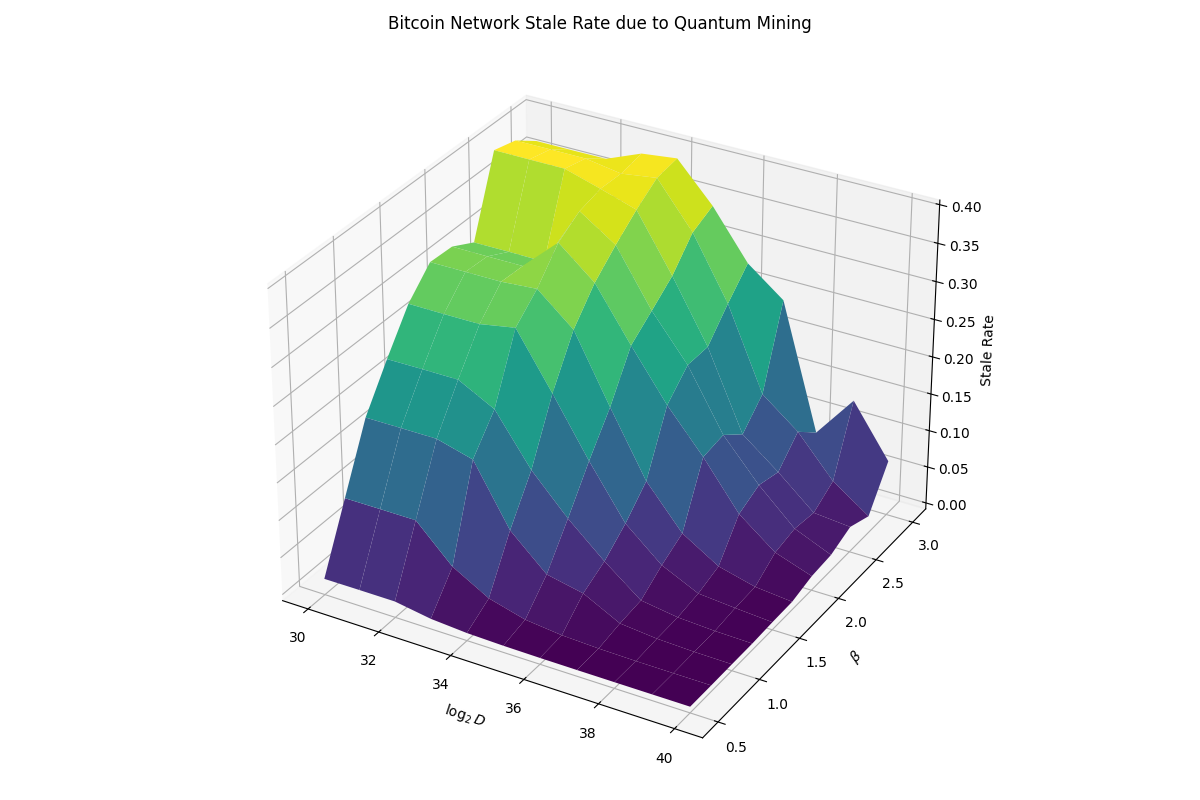
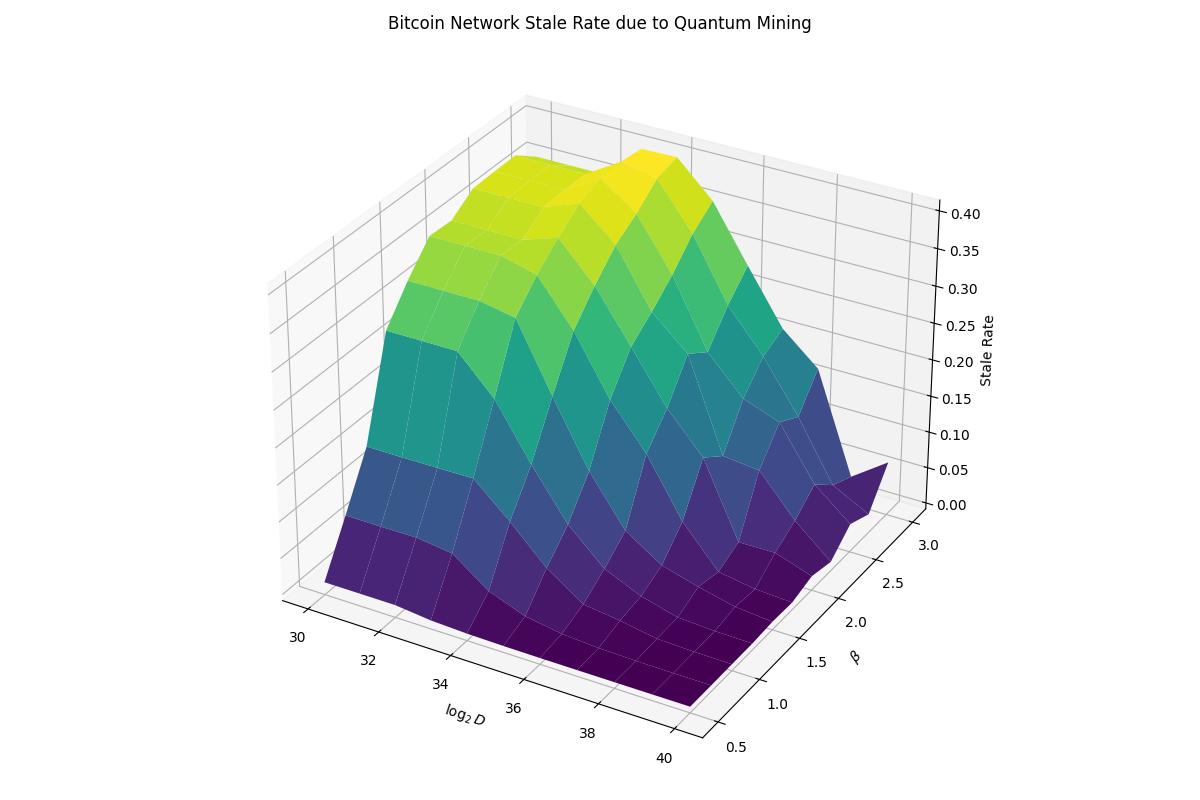
aqms fix and payoff analyze

diff --git a/buildpayoff.py b/buildpayoff.py
@@ -178,6 +178,59 @@ class BuildPayoff:
                 print('{} {} {}'.format(player, strat, value))
         return 
 
+    def analyze_extreme_payoffs(self, A: np.ndarray, B: np.ndarray, player_name: str = "Alice") -> None:
+        """
+        Find and print the grid combinations that result in highest and lowest payoffs.
+        Handles ties by printing all combinations that achieve the extreme values.
+        """
+        matrix = A if player_name == "Alice" else B
+        
+        # Get the cartesian product of strategies
+        set_K = np.arange(0, self.K + 1)
+        cart_prod = cartesian((set_K for x in range(self.num_plays)))
+        
+        # Find max and min values
+        max_val = np.max(matrix)
+        min_val = np.min(matrix)
+        
+        print(f"\n=== EXTREME PAYOFF ANALYSIS FOR {player_name.upper()} ===")
+        print(f"Maximum payoff: {max_val}")
+        print(f"Minimum payoff: {min_val}")
+        
+        # Find all positions with max values
+        max_positions = np.where(matrix == max_val)
+        max_row_col_pairs = list(zip(max_positions[0], max_positions[1]))
+        
+        # Find all positions with min values  
+        min_positions = np.where(matrix == min_val)
+        min_row_col_pairs = list(zip(min_positions[0], min_positions[1]))
+        
+        print(f"\nMAXIMUM PAYOFF COMBINATIONS (Value: {max_val}):")
+        print(f"Found {len(max_row_col_pairs)} combination(s)")
+        
+        for i, (row_idx, col_idx) in enumerate(max_row_col_pairs):
+            row_strat_indices = cart_prod[row_idx]
+            col_strat_indices = cart_prod[col_idx]
+            
+            row_strat_iterations = [self.grid_to_iterations(x) for x in row_strat_indices]
+            col_strat_iterations = [self.grid_to_iterations(x) for x in col_strat_indices]
+            
+            print(f"  {i+1}. Row strategy (indices): {list(row_strat_indices)} -> Iterations: {row_strat_iterations}")
+            print(f"     Col strategy (indices): {list(col_strat_indices)} -> Iterations: {col_strat_iterations}")
+        
+        print(f"\nMINIMUM PAYOFF COMBINATIONS (Value: {min_val}):")
+        print(f"Found {len(min_row_col_pairs)} combination(s)")
+        
+        for i, (row_idx, col_idx) in enumerate(min_row_col_pairs):
+            row_strat_indices = cart_prod[row_idx]
+            col_strat_indices = cart_prod[col_idx]
+            
+            row_strat_iterations = [self.grid_to_iterations(x) for x in row_strat_indices]
+            col_strat_iterations = [self.grid_to_iterations(x) for x in col_strat_indices]
+            
+            print(f"  {i+1}. Row strategy (indices): {list(row_strat_indices)} -> Iterations: {row_strat_iterations}")
+            print(f"     Col strategy (indices): {list(col_strat_indices)} -> Iterations: {col_strat_iterations}")
+
     def get_nash_eq_pygambit(self, A: np.ndarray, B: np.ndarray) -> None:
         A_float = np.nan_to_num(A, nan=0.0, posinf=0.0, neginf=0.0)
         B_float = np.nan_to_num(B, nan=0.0, posinf=0.0, neginf=0.0)
@@ -242,16 +295,16 @@ class BuildPayoff:
         print("\nGrid distribution plot saved as 'quadratic_grid_distribution.png'")
 
 def main():
-    K = 25 #number of pure strategies (including 0 so K=1 means 2 strategies)
-    num_plays = 2 #number of plays
+    K = 10 #number of pure strategies (including 0 so K=1 means 2 strategies)
+    num_plays = 3 #number of plays
     #D = 82047028459932.62
-    D = 119116256505723.5 #difficulty as of May 9 2025
-    #D = 3651011.631 #difficulty as of Feb 26 2013
+    #D = 119116256505723.5 #difficulty as of May 9 2025
+    D = 3651011.631 #difficulty as of Feb 26 2013
     clustering_factor = 2.0
     gamma = 0.5
-    beta = 1.0  # fraction of max_K that can be applied in block mining window
+    beta = 3.0  # fraction of max_K that can be applied in block mining window
 
-    builder = BuildPayoff(K, num_plays, D, clustering_factor, gamma, beta, scale_with_D = True, stop_after = 3)
+    builder = BuildPayoff(K, num_plays, D, clustering_factor, gamma, beta, scale_with_D = True, stop_after = 2)
     builder.test_quadratic_grid()
     A = builder.get_payoff()
     B = builder.get_payoff(bob=True)
@@ -261,6 +314,9 @@ def main():
     print(B)
 
     print('Payoff matrices created!')
+    
+    #builder.analyze_extreme_payoffs(A, B, "Alice")
+    
     builder.get_nash_eq_pygambit(A, B)
 
 

diff --git a/simulate_mining.py b/simulate_mining.py
@@ -490,10 +490,10 @@ def main():
     #D = 82047028459932.62
     D = 119116256505723.5 #difficulty as of May 9 2025
     #D = 3651011.631 #difficulty as of Feb 26 2013
-    beta = 2.0  # fraction of max_K that can be applied in block mining window
+    beta = 3.0  # fraction of max_K that can be applied in block mining window
 
     '''
-    simulator = QuantumMiningSimulator(nash_eq, num_simulations = 1000000, difficulty = D, beta = beta)
+    simulator = QuantumMiningSimulator(nash_eq, num_simulations = 100000, difficulty = D, beta = beta)
     print('Simulating {} runs...'.format(10000000))
     avg_fork_rate, avg_blocks, avg_forks = simulator.simulate_all()
     print('Simulation complete!')
@@ -501,7 +501,6 @@ def main():
     print('Average Blocks Found Per Day:', avg_blocks)
     print('Average Forks Found Per Day:', avg_forks)
     '''
-    
     '''
     simulate_across_betas(
         K = 12,
@@ -526,12 +525,12 @@ def main():
     '''
 
     simulate_across_difficulties_and_betas(
-        K = 5,
+        K = 6,
         num_plays = 3,
         clustering_factor = 2.0,
         gamma = 0.5,
         out_fname = 'combo_output.txt',
-        num_simulations = 10000 
+        num_simulations = 20000 
     )    
 
 if __name__  == '__main__':

diff --git a/visualize_nash_eq.py b/visualize_nash_eq.py
@@ -203,7 +203,7 @@ def create_single_heatmaps(equilibria_data):
         
         # Create annotation strings (empty for zero values)
         annot_strings = np.where(heatmap_data > 0, 
-                                np.vectorize(lambda x: f'{x:.2f}')(heatmap_data), 
+                                np.vectorize(lambda x: f'{x:.4f}')(heatmap_data), 
                                 '')
         
         # Create heatmap
@@ -380,7 +380,7 @@ def main():
         # Create single large heatmaps (no splitting)
         fig_list_heatmaps = create_single_heatmaps(equilibria_data)
         for i, fig in enumerate(fig_list_heatmaps):
-            filename = f'heatmap_{i+1}_low.png'
+            filename = f'heatmap_{i+1}_c3_high.png'
             fig.savefig(filename, dpi=300, bbox_inches='tight', facecolor='white')
             print(f"   {filename}")
         
